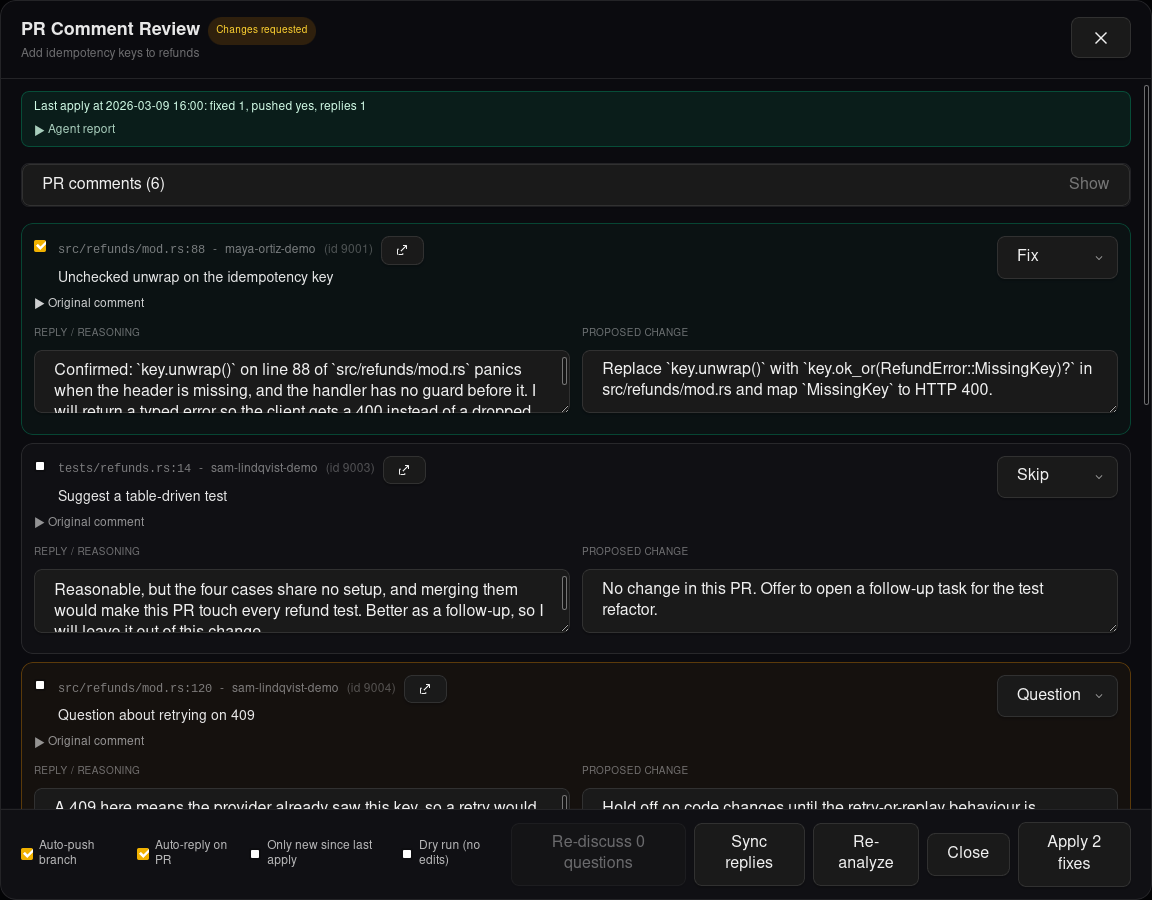
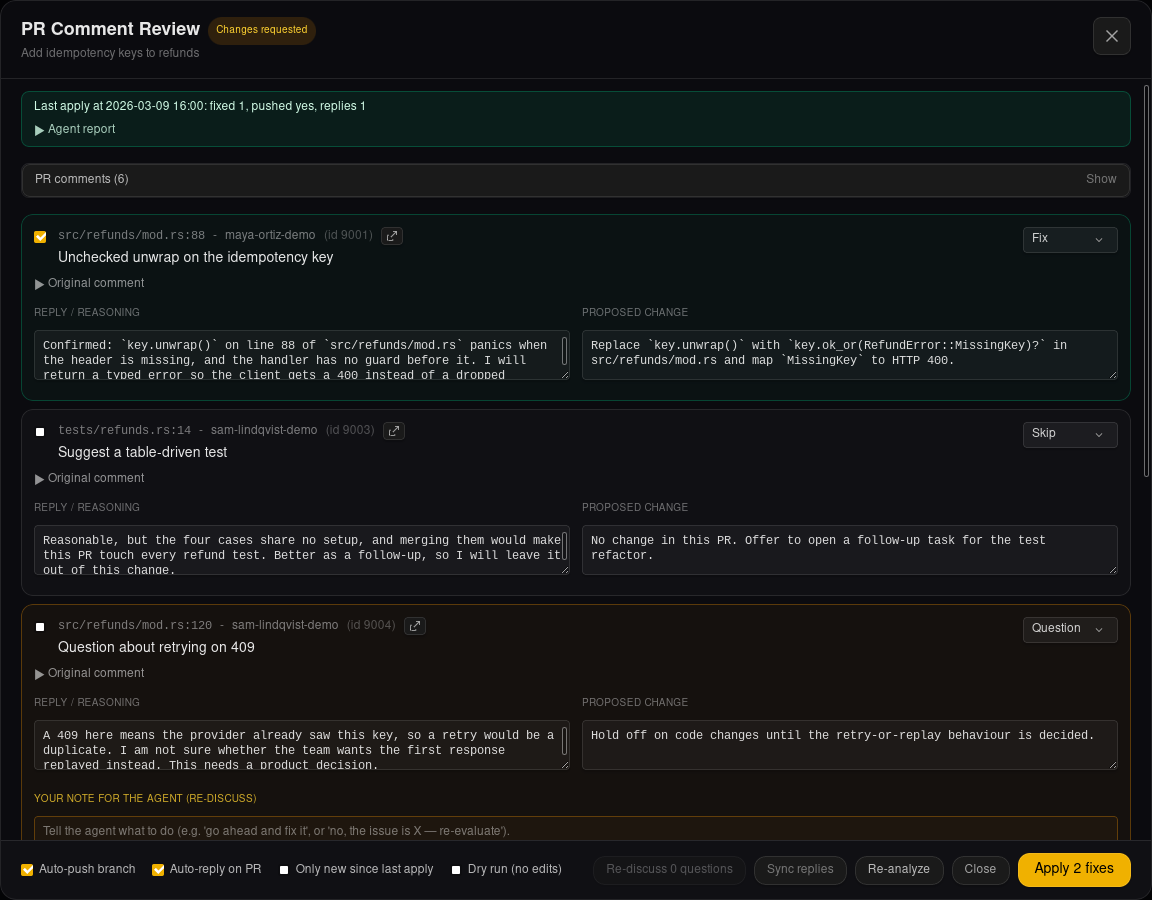
docs: refresh README screenshots
Regenerate the PR Comment Review and Kanban images from synthetic data with
the #128 style fix present, and remove the agent-workspace and worktrees-prs
screenshots, which no longer depict current UI.

diff --git a/README.md b/README.md
@@ -60,20 +60,12 @@ Triage every reviewer comment on a pull request, decide Fix / Skip / Question pe
   <img src="docs/assets/screenshots/pr-comment-review.png" alt="SlashIt PR Comment Review modal: per-comment Fix/Skip/Question dropdown, editable reasoning and proposed change, footer toggles for auto-push, auto-reply, and only-new filter, plus Re-discuss / Re-analyze / Apply actions" width="900">
 </p>
 
-### App overview (in progress)
+### Task flow overview
 
-The screens below preview the rest of the app, parts of which are still being polished.
+The board below follows tasks from the queue through review to done. Parts of the app are still being polished.
 
 <p align="center">
   <img src="docs/assets/screenshots/dashboard-kanban.png" alt="SlashIt Kanban board showing tasks moving from Queue through In Progress, AI Review, Human Review and PR Open to Done, with progress bars, priority labels and a linked pull request" width="900">
-</p>
-
-<p align="center">
-  <img src="docs/assets/screenshots/agent-workspace.jpg" alt="SlashIt agent execution view with terminal logs, task phases, and session context" width="900">
-</p>
-
-<p align="center">
-  <img src="docs/assets/screenshots/worktrees-prs.jpg" alt="SlashIt worktrees page with JJ status, PR readiness, and diff preview" width="900">
 </p>
 
 ## Status and Roadmap
